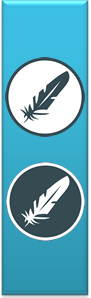
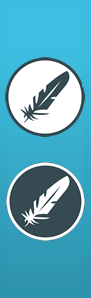
Splashscreen

Changed region(s): [[0.0, 0.0, 1.0, 1.0], [0.9011, 0.2718, 0.9231, 0.302]]

diff --git a/src/qt/splashscreen.cpp b/src/qt/splashscreen.cpp
@@ -21,17 +21,17 @@ SplashScreen::SplashScreen(const QPixmap &pixmap, Qt::WindowFlags f, bool isTest
     setAutoFillBackground(true);
 
     // set reference point, paddings
-    int paddingRight            = 50;
-    int paddingTop              = 50;
-    int titleVersionVSpace      = 17;
-    int titleCopyrightVSpace    = 40;
+    int paddingRight            = 230;
+    int paddingTop              = 300;
+    int titleVersionVSpace      = 13;
+    int titleCopyrightVSpace    = 26;
 
     float fontFactor            = 1.0;
 
     // define text to place
     QString titleText       = tr("Feathercoin Core");
     QString versionText     = QString("Version %1").arg(QString::fromStdString(FormatFullVersion()));
-    QString copyrightText   = QChar(0xA9)+QString(" 2013-%1 ").arg(COPYRIGHT_YEAR) + QString(tr("The Feathercoin Core developers"));
+    QString copyrightText   = QChar(0xA9)+QString(" 2013-%1 ").arg(COPYRIGHT_YEAR) + QString(tr("The Feathercoin developers"));
     QString testnetAddText  = QString(tr("[testnet]")); // define text to place as single text object
 
     QString font            = "Arial";
@@ -46,40 +46,24 @@ SplashScreen::SplashScreen(const QPixmap &pixmap, Qt::WindowFlags f, bool isTest
     }
 
     QPainter pixPaint(&newPixmap);
-    pixPaint.setPen(QColor(100,100,100));
+    pixPaint.setPen(QColor(70,70,70));
 
-    // check font size and drawing with
-    pixPaint.setFont(QFont(font, 33*fontFactor));
+
+    pixPaint.setFont(QFont(font, 9*fontFactor));
     QFontMetrics fm = pixPaint.fontMetrics();
     int titleTextWidth  = fm.width(titleText);
-    if(titleTextWidth > 160) {
-        // strange font rendering, Arial probably not found
-        fontFactor = 0.75;
-    }
-
-    pixPaint.setFont(QFont(font, 33*fontFactor));
     fm = pixPaint.fontMetrics();
     titleTextWidth  = fm.width(titleText);
-    pixPaint.drawText(newPixmap.width()-titleTextWidth-paddingRight+44,paddingTop,titleText);
+    pixPaint.drawText(newPixmap.width()-titleTextWidth-paddingRight,paddingTop,titleText);
 
-    pixPaint.setFont(QFont(font, 15*fontFactor));
-
-    // if the version string is to long, reduce size
     fm = pixPaint.fontMetrics();
-    int versionTextWidth  = fm.width(versionText);
-    if(versionTextWidth > titleTextWidth+paddingRight-10) {
-        pixPaint.setFont(QFont(font, 10*fontFactor));
-        titleVersionVSpace -= 5;
-    }
-    pixPaint.drawText(newPixmap.width()-titleTextWidth-paddingRight+2+58,paddingTop+titleVersionVSpace,versionText);
+    pixPaint.drawText(newPixmap.width()-titleTextWidth-paddingRight,paddingTop+titleVersionVSpace,versionText);
 
-    // draw copyright stuff
-    pixPaint.setFont(QFont(font, 10*fontFactor));
-    pixPaint.drawText(newPixmap.width()-titleTextWidth-paddingRight+64,paddingTop+titleCopyrightVSpace,copyrightText);
+    pixPaint.drawText(newPixmap.width()-titleTextWidth-paddingRight,paddingTop+titleCopyrightVSpace,copyrightText);
 
     // draw testnet string if testnet is on
     if(isTestNet) {
-        QFont boldFont = QFont(font, 10*fontFactor);
+        QFont boldFont = QFont(font, 9*fontFactor);
         boldFont.setWeight(QFont::Bold);
         pixPaint.setFont(boldFont);
         fm = pixPaint.fontMetrics();
